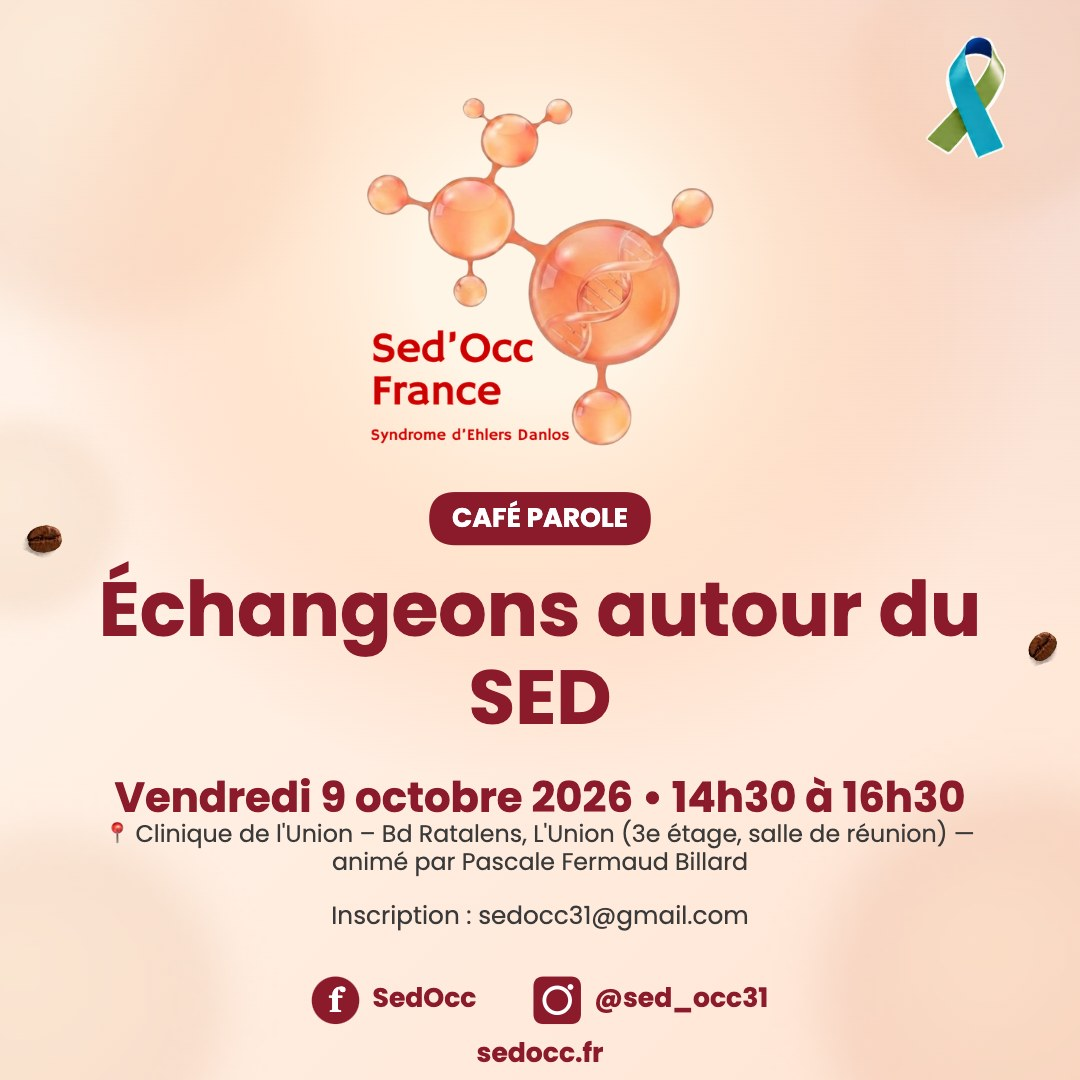
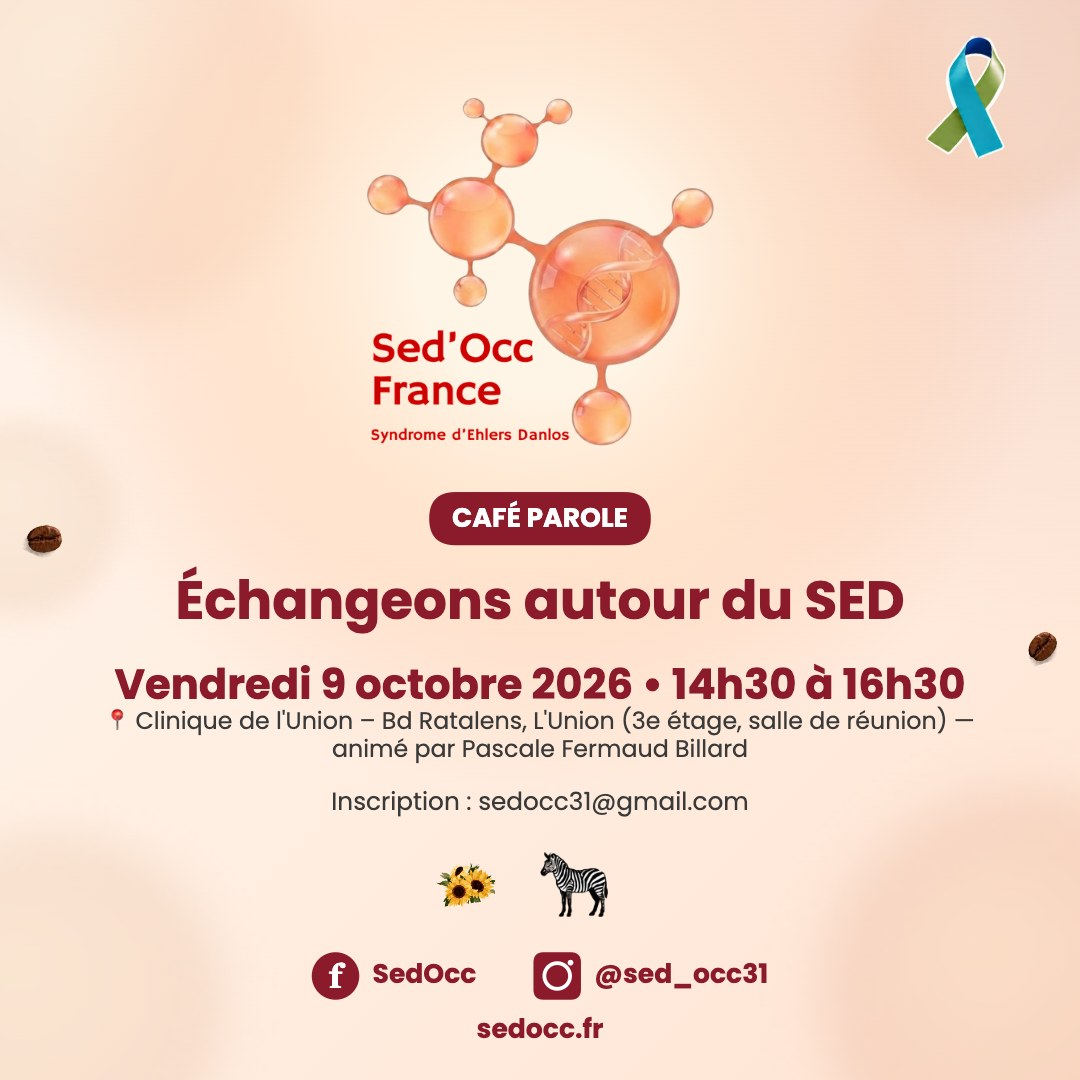
Ajouter le tournesol et reduire le titre dans le generateur de visuels
- Titre principal moins imposant (56px au lieu de 80px sur le format
  carre), plus proche des proportions du vrai flyer cafe parole.
- Tournesol ajoute au decor Cafe Parole, a cote du zebre.
- Le zebre et le tournesol sont maintenant toujours affiches quand le
  decor est coche (au lieu de disparaitre silencieusement si le texte
  etait trop long) : leur espace est reserve dans la mise en page.
- Regenere les deux visuels cafe parole d'octobre avec ces changements.

Changed region(s): [[0.0917, 0.5194, 0.9167, 1.0]]

diff --git a/admin.html b/admin.html
@@ -410,7 +410,7 @@
 
                     <div class="form-group">
                         <label style="font-weight:400;display:flex;align-items:center;gap:6px;cursor:pointer;">
-                            <input type="checkbox" id="vis-decor-cafe" onchange="updateVisuel()"> Décor Café Parole (ruban, zèbre, grains de café)
+                            <input type="checkbox" id="vis-decor-cafe" onchange="updateVisuel()"> Décor Café Parole (ruban, zèbre, tournesol, grains de café)
                         </label>
                     </div>
 
@@ -3760,7 +3760,8 @@ const decorCafeImages = {};
 [
     ['ruban', 'images/generateur/ruban-maladies-rares.png'],
     ['zebre', 'images/generateur/zebre.png'],
-    ['grain', 'images/generateur/grain-cafe.png']
+    ['grain', 'images/generateur/grain-cafe.png'],
+    ['tournesol', 'images/generateur/tournesol.png']
 ].forEach(function(entry) {
     const img = new Image();
     img.crossOrigin = 'anonymous';
@@ -3999,7 +4000,7 @@ function drawVisuel(ctx, fmt, style) {
         ctx.fillStyle = colorPrimary;
         ctx.textAlign = 'center';
         ctx.textBaseline = 'top';
-        const titreFontSize = isStory ? 96 * scale : (isWide ? 70 * scale : 80 * scale);
+        const titreFontSize = isStory ? 72 * scale : (isWide ? 46 * scale : 56 * scale);
         ctx.font = 'bold ' + titreFontSize + 'px Poppins, sans-serif';
         const lineH = titreFontSize * 1.15;
         const titreLines = wrapText(ctx, titre, W - padX * 2);
@@ -4081,23 +4082,26 @@ function drawVisuel(ctx, fmt, style) {
     });
     const footerReserve = (showReseaux ? 155 : 55) * scale;
 
-    // Zèbre du décor "Café Parole" : posé APRÈS le texte, centré sous celui-ci, jamais avant —
-    // comme ça il ne peut jamais chevaucher le titre/date/lieu quelle que soit leur longueur.
-    // S'il n'y a pas assez de place au-dessus du pied de page (contenu trop long), on le
-    // saute plutôt que de risquer de pousser "sedocc.fr" et les icônes hors du visuel.
-    const zebreSize = 95 * scale;
-    const zebreGap = zebreSize + 35 * scale;
-    const fixedFooterTop = H - padY * 0.45 - footerReserve;
-    const showZebre = decorCafeOn && decorCafeImages.zebre && (contentBottomY + zebreGap + 20 * scale) < fixedFooterTop;
-    if (showZebre) {
-        drawDecorImage(ctx, decorCafeImages.zebre, W / 2, contentBottomY + zebreGap / 2, zebreSize, 0);
+    // Zèbre + tournesol du décor "Café Parole" : posés APRÈS le texte, l'un à côté de l'autre,
+    // jamais avant — comme ça ils ne peuvent jamais chevaucher le titre/date/lieu quelle que
+    // soit leur longueur. Toujours affichés (pas de condition de place) : leur espace est
+    // réservé dans le calcul du pied de page juste en dessous, pour qu'ils fassent systématiquement
+    // partie de la trame plutôt que de disparaître silencieusement sur un contenu plus long.
+    const zebreSize = 72 * scale;
+    const tournesolSize = 62 * scale;
+    const decorRowGap = Math.max(zebreSize, tournesolSize) + 28 * scale;
+    if (decorCafeOn && decorCafeImages.zebre) {
+        drawDecorImage(ctx, decorCafeImages.zebre, W / 2 + 36 * scale, contentBottomY + decorRowGap / 2, zebreSize, 0);
+    }
+    if (decorCafeOn && decorCafeImages.tournesol) {
+        drawDecorImage(ctx, decorCafeImages.tournesol, W / 2 - 78 * scale, contentBottomY + decorRowGap / 2, tournesolSize, -8);
     }
 
     // Le pied de page reste collé en bas si tout tient ; sinon il descend sous le contenu
     // (plutôt que de le chevaucher), au prix d'un léger débord accepté pour les cas extrêmes.
-    // 124*scale = marge de sécurité pour que le HAUT des icônes (qui dépassent de 72+25px
+    // 118*scale = marge de sécurité pour que le HAUT des icônes (qui dépassent de 72+25px
     // au-dessus de ce point d'ancrage) reste toujours sous le texte, pas seulement son point d'ancrage.
-    const footerBase = Math.max(H - padY * 0.45, contentBottomY + (showZebre ? zebreGap : 0) + 124 * scale);
+    const footerBase = Math.max(H - padY * 0.45, contentBottomY + (decorCafeOn ? decorRowGap : 0) + 118 * scale);
     if (activePartnerLogos.length) {
         const logoH = 55 * scale;
         const gap2 = 36 * scale;
